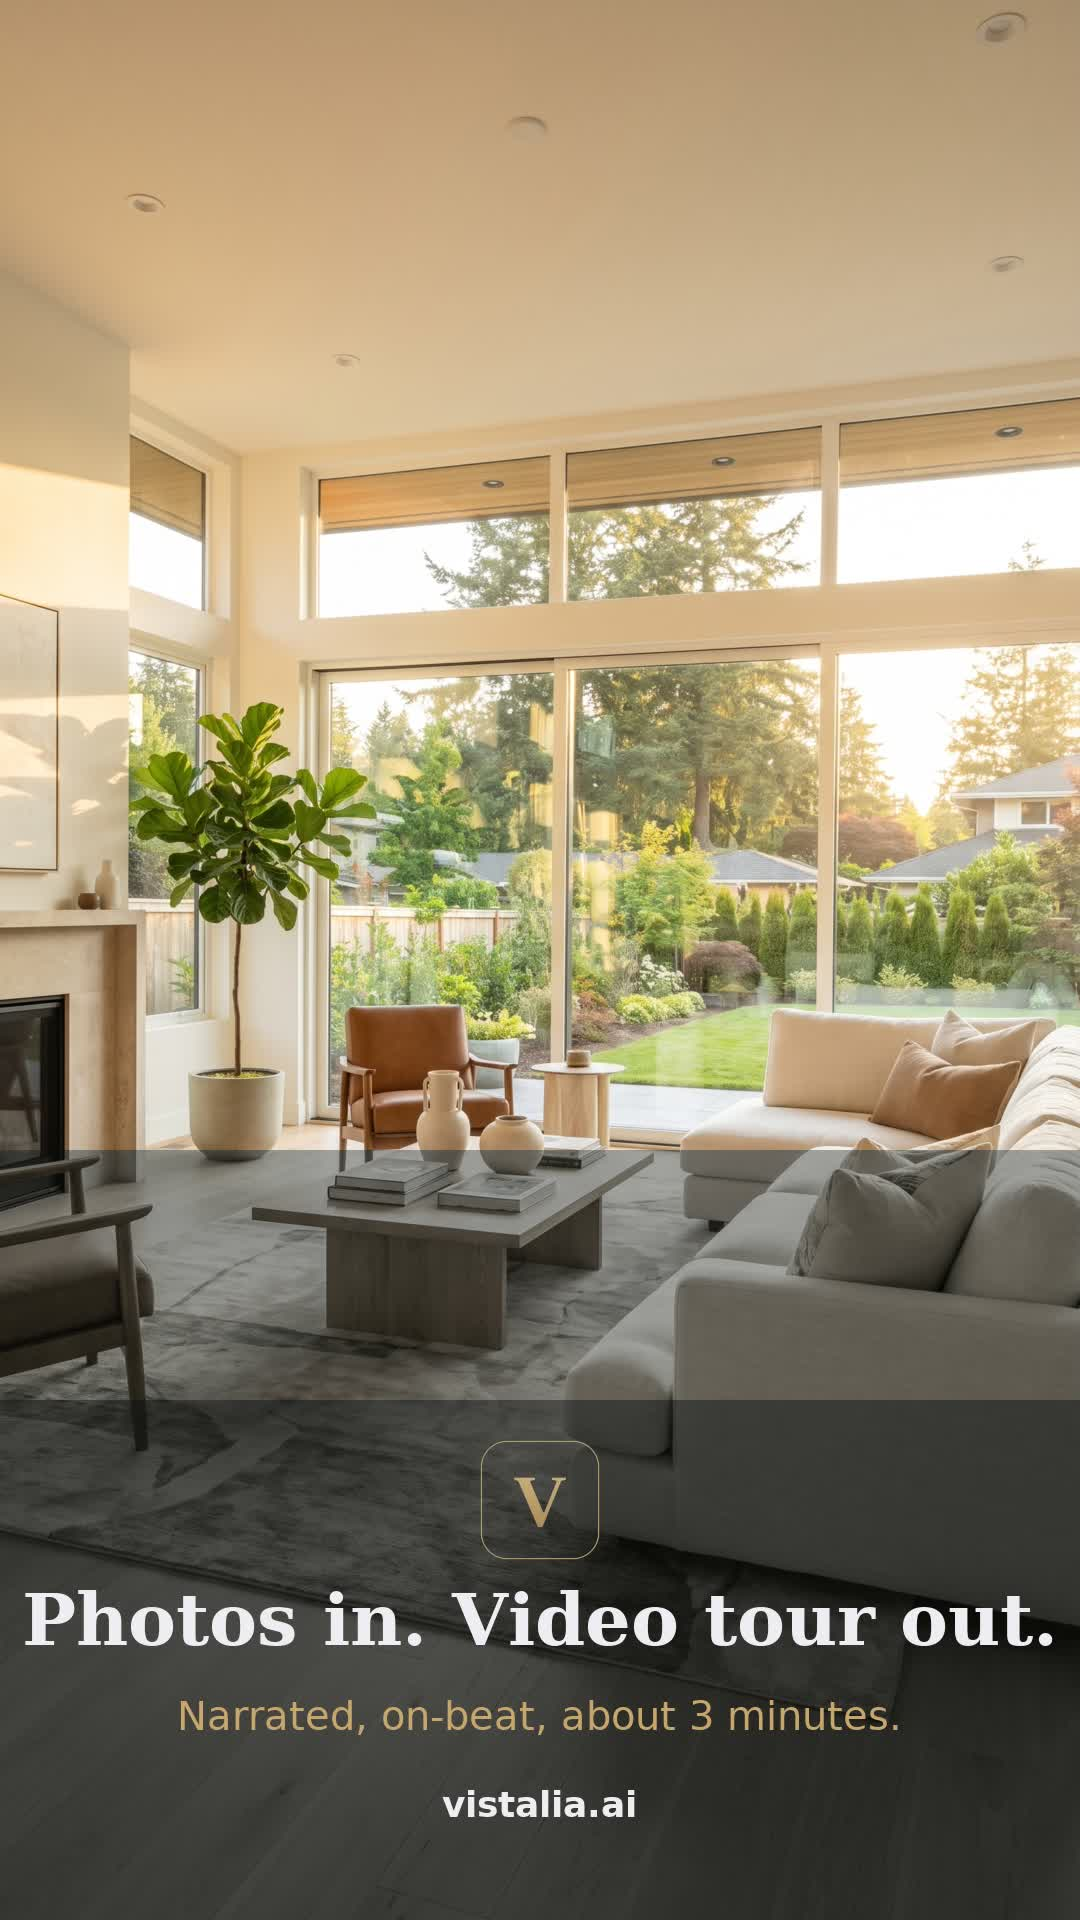
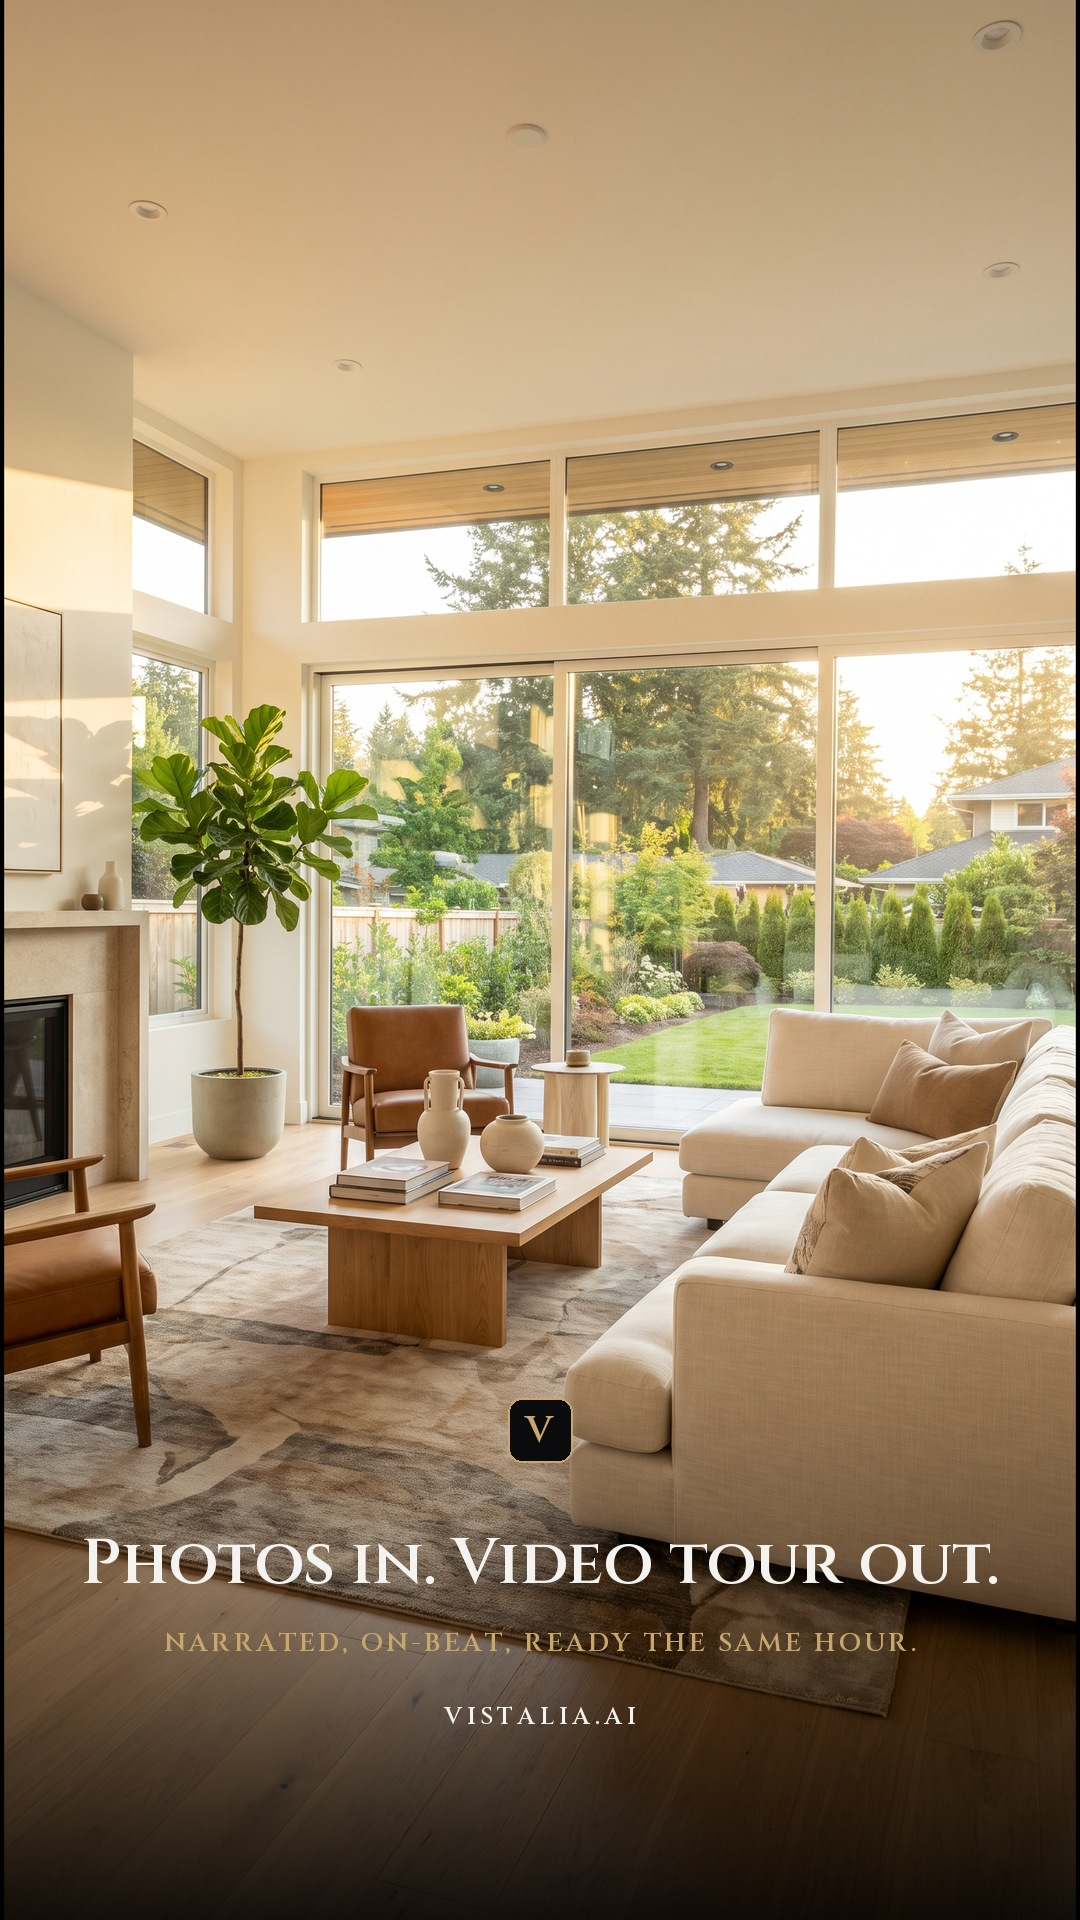
marketing: veteran/secret prompts, jess ref frames, rebuilt static-living

diff --git a/marketing/ads/PROMPT-ideas-4th-veteran.md b/marketing/ads/PROMPT-ideas-4th-veteran.md
@@ -1,0 +1,79 @@
+# 4th ad — veteran realtor persona (55) — concept brainstorm
+
+**Persona block (create once in Higgsfield characters):**
+DIANE — Vistalia veteran-realtor persona: woman in her mid-50s, polished
+silver-streaked blonde bob, warm smile with natural laugh lines, tasteful
+cream blazer over a silk blouse, delicate gold necklace, real-estate
+professional polish, relaxed confident energy. Facial features clear and
+undistorted, consistent clothing throughout.
+
+Casting logic: median US realtor is a woman in her mid-50s — this persona is
+the audience seeing themselves. Jess covers the young-agent read; Diane covers
+the veteran majority.
+
+Claim rules (all scripts below comply): no minutes counts, no $39. Allowed:
+"same day / same hour," "first one's free," "narrated in your voice."
+
+---
+
+## Concept 1 — "Experience wins again" (competitive pride) ★ RECOMMENDED
+
+Angle: identity/pride — the veteran quietly out-marketing the twenty-somethings.
+Nobody in the current set owns this emotion. Highly shareable among the 45-65
+female agent cohort; punches young, so it's safe and funny.
+
+Script: "The twenty-somethings at my brokerage post Reels all day. Cute.
+My listings hit the MLS with a full cinematic tour — narrated, music,
+the same afternoon. And I have never once opened an editing app.
+Experience wins again."
+
+Setting: her tidy home office or staged kitchen, afternoon light, coffee cup.
+Delivery: dry, amused, one eyebrow. Zero desperation — pure quiet confidence.
+
+## Concept 2 — "Who's your videographer?" (humble-brag referral)
+
+Angle: social proof with a wink — closest cousin to "secret" but warm pride
+instead of playful secrecy.
+
+Script: "A seller asked me who my videographer was. I didn't have the heart
+to tell her it's the same listing photos she saw on the MLS. Every listing
+I take gets a narrated cinematic tour now — same day. And my last three
+listings came from people who saw those videos."
+
+Setting: patio café table, late morning, phone face-down beside her coffee.
+Delivery: leans in on the confession, laughs at herself once.
+
+## Concept 3 — "The listing appointment" (win-listings)
+
+Angle: the deepest agent pain — winning the listing, not marketing it.
+Veteran + listing presentations = credible pairing.
+
+Script: "Thirty years of listing appointments, and this is the best closer
+I've ever had. I show sellers what their home will look like as a cinematic,
+narrated tour before they sign. They stop interviewing other agents."
+
+Setting: parked outside a brick colonial, blazer on, folder on passenger seat.
+Delivery: matter-of-fact, like advice to a younger colleague.
+Note: keep mechanics vague ("show them what it will look like") — honest as a
+dramatization, don't imply a specific signed client.
+
+## Concept 4 — "My sellers expect more" (luxury seller-expectation)
+
+Angle: high-end market — sellers demand magazine treatment; pairs with the
+Cinematic Luxury showcase style. Narrower audience; good later rotation.
+
+Script: "At my price point, sellers expect magazine coverage. Every listing
+gets a cinematic narrated film before the first showing. They assume I have
+a production team. It's their own photos."
+
+Setting: standing in a marble foyer or beside a staged console table, evening.
+Delivery: unhurried, slightly amused on the last line.
+
+---
+
+Day-1 slot pairing if Concept 1 wins: rotate into the UGC ad set when car or
+secret fatigues; headline "Your photos. Cinematic. Narrated." · Primary E-style
+objection copy adapted, or new Primary G: "The agents posting the best listing
+videos in your market aren't editing anything. Narrated cinematic tours from
+the photos you already have — about $8 a listing on an annual plan. First one
+free."